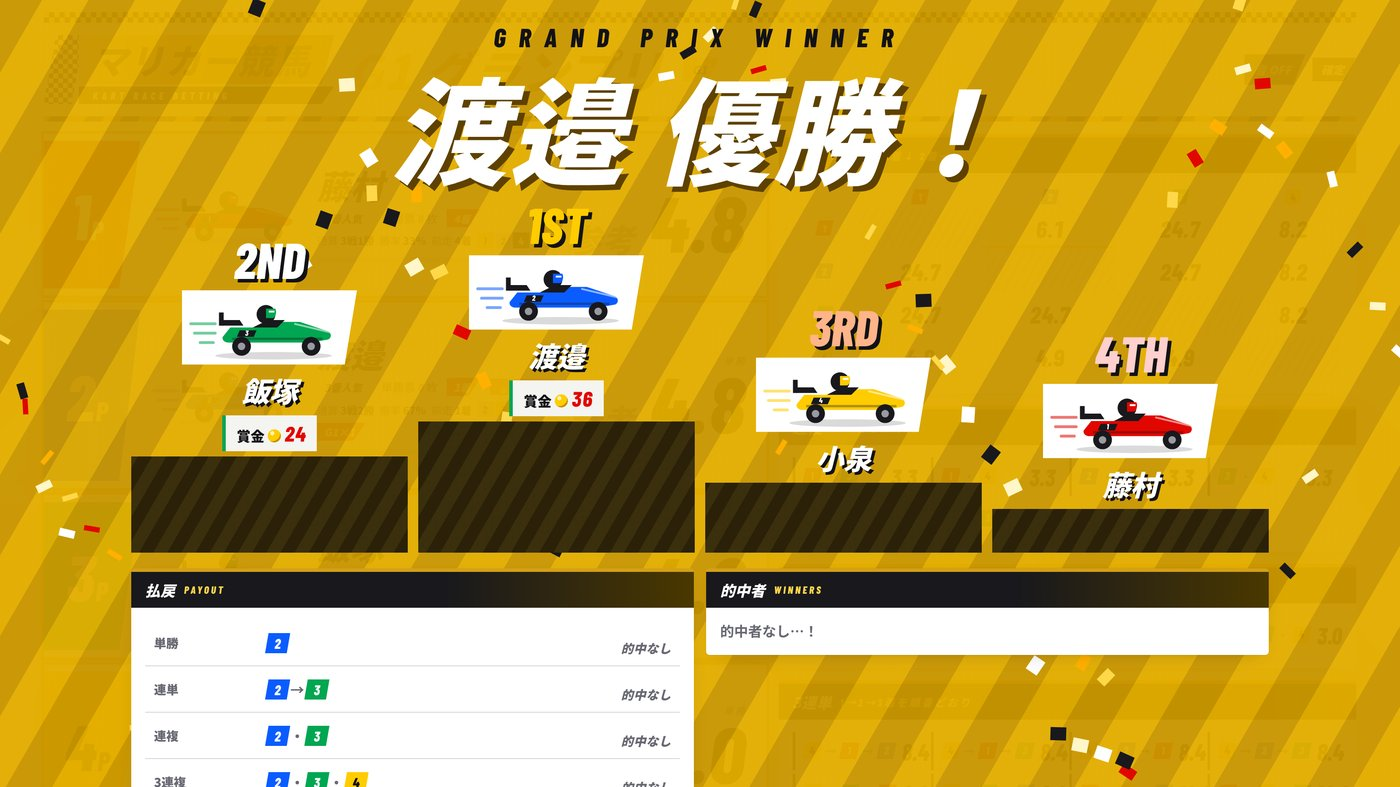
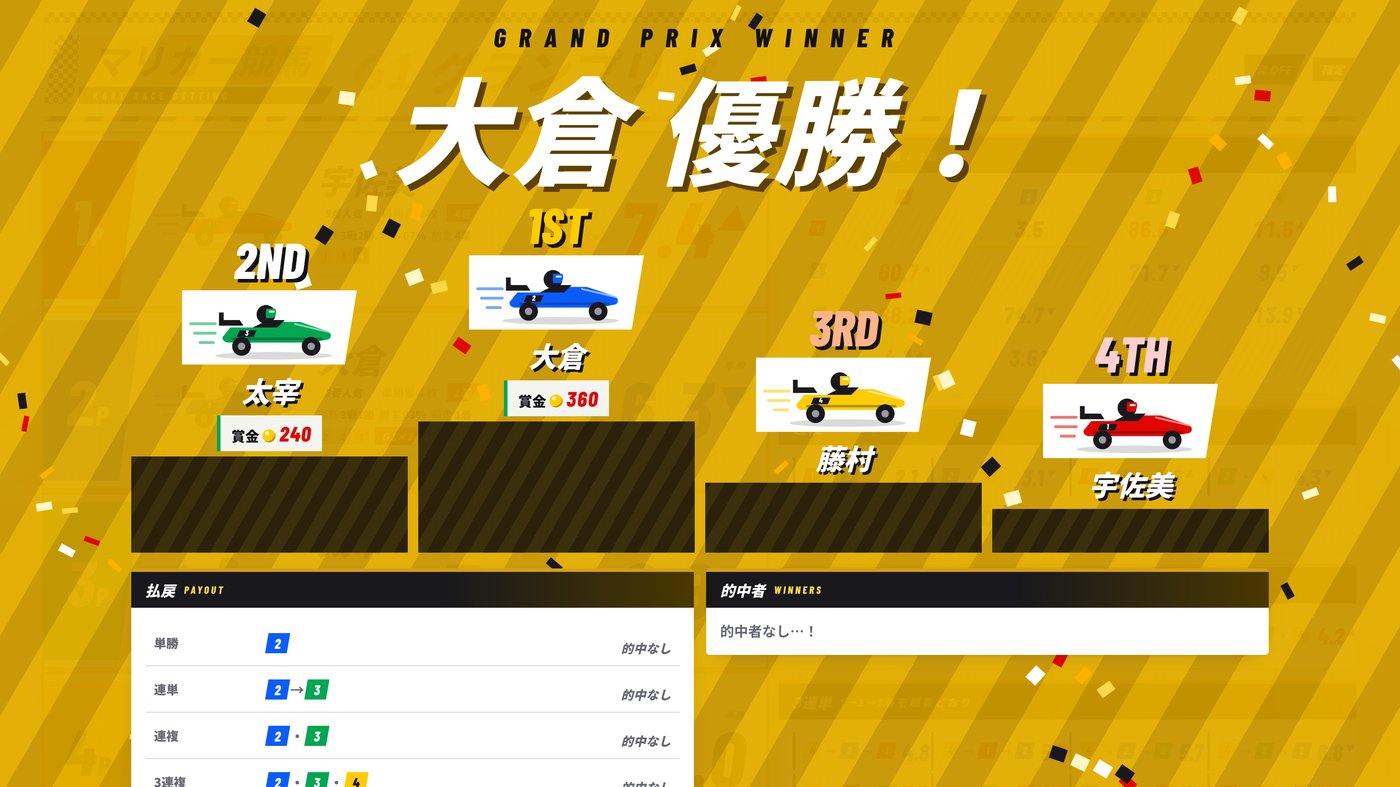
Publish chip unit, member rename, auto-tuned rules and names on tickets
Built from shinagawashrine-bit/questions mariokart-keiba/web/build.py.

Claude-Session: https://claude.ai/code/session_01Ww7jsUFGT8753ufTPMNzBb

diff --git a/index.html b/index.html
@@ -260,6 +260,10 @@ h1,h2,h3{font-family:var(--f-display);font-weight:900;font-style:italic;margin:0
 .amt .v{font-family:var(--f-num);font-weight:800;font-style:italic;font-size:36px;min-width:1.8em;text-align:center;line-height:1}
 .betbar .num[style]{color:var(--yellow)!important}
 .mytix{display:grid;gap:4px}
+.selp{display:inline-flex;align-items:center;white-space:nowrap}
+.selnm{font-weight:800;margin:0 2px 0 4px;white-space:nowrap}
+.tline>span:first-child,.mytix .tl>span:first-child{flex-wrap:wrap;min-width:0;row-gap:2px}
+.tline>span:last-child,.mytix .tl>span:last-child{white-space:nowrap;flex-shrink:0}
 .mytix .tl{display:flex;justify-content:space-between;align-items:center;gap:8px;background:var(--paper);padding:8px 12px;border-left:4px solid var(--ink)}
 .mytix .tl .num{font-size:20px}
 .cheer{text-align:center;padding:22px 16px;background:var(--paper);border-top:5px solid var(--red);box-shadow:0 8px 24px -16px #00000066}
@@ -482,13 +486,14 @@ const MK = {
 const MORDER = ["win","ex","qu","tri","t3"];
 const DEFAULT_SETTINGS = {
   rates:{win:80, ex:75, qu:75, tri:75, t3:70},
-  seed:{ex:50, qu:50, tri:50, t3:50},
-  caps:{win:0, ex:100, qu:100, tri:100, t3:50, self:50},
+  seed:{ex:500, qu:500, tri:500, t3:500},
+  caps:{win:0, ex:1000, qu:1000, tri:1000, t3:500, self:500},
   countdown:60,
   prizes:{prelim:[10,5], g1:[15,10], dobe:[5]},
-  virtual:30,
-  unit:10,
-  yen:10,
+  virtual:300,
+  unit:100,
+  yen:1,
+  chipV:2,
 };
 const POINTS = [4,3,2,1];
 const TYPE_LABEL = {prelim:"予選", g1:"G1 グランプリ", dobe:"D1 ドベ決定戦"};
@@ -499,11 +504,56 @@ const CIRC = ["①","②","③","④"];
 const S = {
   db:null, user:null, uid:null, isOwner:false, ready:false, noDb:false,
   state:null, ledger:null, bets:{}, roster:null, history:null, ps:{},
-  ui:{ m:"win", sel:[], amt:10, order:[], form:{}, proxyMember:"", pm:"win", psel:[], pamt:10, confirm:null, perPerson:null, claimOpen:false },
+  ui:{ m:"win", sel:[], amt:100, order:[], form:{}, proxyMember:"", pm:"win", psel:[], pamt:100, confirm:null, perPerson:null, claimOpen:false },
   prevOdds:{}, flash:{}, closing:false, lastOverlayKey:"",
 };
 function defaultState(){ return {members:[], races:[], cur:-1, settings:clone(DEFAULT_SETTINGS), gameId:rid()}; }
-function settings(){ const s=(S.state&&S.state.settings)||{}; return deepMerge(clone(DEFAULT_SETTINGS), s); }
+function settings(){
+  let s=(S.state&&S.state.settings)||{};
+  // 1枚＝10円・10枚単位のころに保存した設定は、1枚＝1円・100枚単位に合わせて10倍にして読む
+  if(!s.chipV && Object.keys(s).length){
+    s=clone(s); const x10=o=>{ if(o) for(const k in o) if(typeof o[k]==="number") o[k]*=10; };
+    x10(s.seed); x10(s.caps); ["virtual","unit"].forEach(k=>{ if(typeof s[k]==="number") s[k]*=10; }); s.yen=1; s.chipV=2;
+  }
+  const st=deepMerge(clone(DEFAULT_SETTINGS), s);
+  const L=learnedTune(st);
+  ["ex","qu","tri","t3"].forEach(m=>{ if(L.seed[m]!=null) st.seed[m]=L.seed[m]; });
+  if(L.virtual!=null) st.virtual=L.virtual;
+  if(L.caps) Object.assign(st.caps, L.caps);
+  if(L.countdown!=null) st.countdown=L.countdown;
+  st.learned=L.from;
+  return st;
+}
+/* 自動調整：払戻率と賞金％以外は、遊んだ記録から決める。
+   - 見せ金（連系）：直近10レースの売上の中央値の2倍を買い目の数で割る（少なすぎると数枚で倍率が暴落するため）。
+   - 仮の票（単勝）：直近10レースの単勝の売上の中央値の半分を4人で割る。どちらも3レース分たまるまでは初期値。
+   - 1人1レースの上限：今日配ったチップ（1人あたりの中央値）の10%（3連単と走者の自分単勝は5%）。
+   - 締切カウントダウン：直近5レースで「＋30秒」が押された回数と「即締切」の割合から、30〜120秒で調整。 */
+let tuneCache={key:"", val:null};
+function learnedTune(st){
+  const hr=(S.history&&S.history.races)||[], le=(S.ledger&&S.ledger.entries)||[];
+  const key=[hr.length, hr.length?hr[hr.length-1].rid+hr[hr.length-1].t:"", le.length, le.length?le[le.length-1].t:"", S.state&&S.state.gameId, st.unit].join("|");
+  if(tuneCache.key===key) return tuneCache.val;
+  tuneCache={key, val:learnedTuneCalc(st)}; return tuneCache.val;
+}
+function learnedTuneCalc(st){
+  const U=Math.max(1,st.unit||1), rU=x=>Math.max(U,Math.round(x/U)*U), cl=(x,a,b)=>Math.min(b,Math.max(a,x));
+  const med=a=>{ const b=a.slice().sort((x,y)=>x-y); return b[Math.floor(b.length/2)]; };
+  const H=((S.history&&S.history.races)||[]).slice().sort((a,b)=>a.t-b.t), out={seed:{}, from:{}};
+  const P=H.filter(x=>x.pools), NC={ex:12, qu:6, tri:4, t3:24};
+  ["ex","qu","tri","t3"].forEach(m=>{ const xs=P.filter(x=>x.pools[m]!=null).slice(-10).map(x=>x.pools[m]);
+    if(xs.length>=3){ out.seed[m]=cl(rU(med(xs)*2/NC[m]), U*2, U*20); out.from.seed=xs.length; } });
+  const ws=P.filter(x=>x.pools.win!=null).slice(-10).map(x=>x.pools.win);
+  if(ws.length>=3){ out.virtual=cl(Math.round(med(ws)*0.5/4/10)*10, U, U*10); out.from.virtual=ws.length; }
+  const gid=S.state&&S.state.gameId, given={};
+  ((S.ledger&&S.ledger.entries)||[]).filter(e=>e.gameId===gid&&e.amt>0).forEach(e=>given[e.member]=(given[e.member]||0)+e.amt);
+  const gv=Object.values(given);
+  if(gv.length){ const g=med(gv); out.caps={ex:rU(g*0.1), qu:rU(g*0.1), tri:rU(g*0.1), t3:rU(g*0.05), self:rU(g*0.05)}; out.from.caps=g; }
+  const C=H.filter(x=>x.ext!=null).slice(-5);
+  if(C.length>=3){ const ext=C.reduce((a,x)=>a+x.ext,0)/C.length, early=C.filter(x=>x.early).length/C.length;
+    out.countdown=cl(Math.round((60+15*ext-15*early)/5)*5, 30, 120); out.from.countdown=C.length; }
+  return out;
+}
 
 /* ---------------- utils ---------------- */
 function clone(o){ return JSON.parse(JSON.stringify(o)); }
@@ -832,7 +882,9 @@ function kart(i, num){
   </svg>`;
 }
 function badge(r,id){ const i=laneIdx(r,id); return `<span class="lanebadge c${i}">${i+1}</span>`; }
-function selHtml(r,m,sel){ const sep=MK[m].ordered?"→":"・"; return sel.map(id=>badge(r,id)).join(`<span class="muted">${sep}</span>`); }
+function selHtml(r,m,sel,names){ const sep=MK[m].ordered?"→":"・"; return sel.map(id=>names?`<span class="selp">${badge(r,id)}<span class="selnm">${esc(sel.length>1?shortName(mname(id)):mname(id))}</span></span>`:badge(r,id)).join(`<span class="muted">${sep}</span>`); }
+/* 2人以上並べるときの短い名前：スペースがあれば前半（苗字）、なければ4文字以上は先頭2文字 */
+function shortName(n){ n=String(n||"").trim(); const sp=n.split(/[\s　]+/); if(sp.length>1) return sp[0]; return n.length>=4?n.slice(0,2):n; }
 function selText(r,m,sel){ const sep=MK[m].ordered?"→":"・"; return sel.map(id=>CIRC[laneIdx(r,id)]+mname(id)).join(sep); }
 function coin(){ return `<span class="coin"></span>`; }
 function statusPill(r){ const st=r.status==="countdown"&&remain(r)===0?"closed":r.status; return `<span class="pill st-${st}">${st==="open"||st==="countdown"?'<span class="dot"></span>':""}${STATUS_LABEL[st]}</span>`; }
@@ -918,7 +970,7 @@ function helpPlayer(){
     <p>4人が走るマリオカートのレースに、残りの人がスマホからチップを賭けて遊ぶゲームです。アカウント登録やアプリのインストールはいりません。</p>
     <ol class="mlist"><li><b>受付中</b>：スマホから馬券を買う</li><li><b>締切</b>：カウントダウンが終わると締切。大画面にみんなの馬券が公開される</li><li><b>レース</b>：4人が走る</li><li><b>結果発表</b>：当たった人にチップが払い戻される</li></ol>
     <p>予選を何回か行ったあと、上位4人の「G1 グランプリ」と下位4人の「D1 ドベ決定戦」で決勝。最後に表彰式があります。</p>
-    <ul class="mlist"><li>チップは主催者から配られます。</li><li>自分が走る番のレースは、ほかの人に賭けられません。</li></ul>`)}</div>
+    <ul class="mlist"><li>チップは主催者から配られます。1チップ＝1円の感覚で、賭けるのは${unit()}チップ単位です。</li><li>自分が走る番のレースは、ほかの人に賭けられません。</li></ul>`)}</div>
   <div id="m-ready">${mSec("準備","READY",`
     <ol class="mlist"><li>大画面のQRコードを読み取るか、主催者から送られたURLを開く</li><li>「あなたは誰？」で自分の名前をタップする</li><li>名前と残高（持っているチップ）が出たら準備完了</li></ol>
     ${mImg("p_start.jpg","左：名前を選ぶ画面。右：選んだあとの画面。右上の数字が残高")}
@@ -983,9 +1035,9 @@ function helpAdmin(){
     <h3>1. 管理画面を開く</h3>
     <ol class="mlist"><li>管理用URLを開き、暗証番号を入れて「開く」（一度入れた端末は次回から不要）</li><li>テレビにつないだPCで大画面用URLを開き、全画面表示にする</li></ol>
     <h3>2. メンバーを登録する</h3>
-    <ul class="mlist"><li>初めての人：「名前を入力」に名前を入れて「追加」</li><li>2回目から：「いつものメンバー」の名前をタップ。「全員参加」でまとめて追加</li></ul>
+    <ul class="mlist"><li>初めての人：「名前を入力」に名前を入れて「追加」ボタン（Enterキーでは追加されません）</li><li>名前を間違えたら、名前の横の「名前を変更」で直せます</li><li>苗字と名前のあいだにスペースを入れておくと（例：小泉 勝史）、馬券に何人か並ぶときに苗字だけが正しく表示されます</li><li>2回目から：「いつものメンバー」の名前をタップ。「全員参加」でまとめて追加</li></ul>
     <h3>3. チップを配る</h3>
-    <p>各自の行の「枚」に枚数を入れて青い「配る」。全員に同じ枚数を配るのがおすすめです。配りすぎたら「減らす」。</p>
+    <p>各自の行の「枚」に枚数を入れて青い「配る」。1チップ＝1円の感覚で、賭けは${unit()}チップ単位です。全員に同じ枚数を配るのがおすすめです（例：1万チップ）。配りすぎたら「減らす」。</p>
     ${mImg("members.jpg","8人を登録し、各1000枚を配ったところ")}
     <p>参加者がスマホで名前を選ぶと「スマホ接続」と出ます。全員に付いたか確かめてから始めると安心です。</p>
     <h3>4. 出走表を作る</h3>
@@ -1036,8 +1088,8 @@ function helpAdmin(){
     <ol class="mlist"><li>「馬券データCSV」「レース結果CSV」で保存（次回の倍率や払戻率の見直しに使える）</li><li>「ゲームをリセット」→「リセットする」</li></ol>
     ${mImg("data.jpg","CSVの保存とリセット")}
     <ul class="mlist"><li>リセットで消えるのは、今日のメンバー・チップ・出走表・馬券です。</li><li>名簿、これまでの成績、ルール設定は消えません。</li><li>試しに遊んだあとも、リセットしてから本番を始めてください。</li></ul>
-    <h3>ルール設定（必要なときだけ）</h3>
-    <p>「ルール設定」で払戻率・上限・締切の秒数・賭けの単位・賞金の割合・見せ金を変えて「設定を保存」できます。初めてなら、そのままで大丈夫です。</p>`)}</div>
+    <h3>ルール設定（自動で調整されます）</h3>
+    <p>ふだんは触らなくて大丈夫です。管理画面の「ルール設定」を開くと、払戻率と賞金の％だけ手で変えられます。</p><ul class="mlist"><li>見せ金・単勝の仮の票：直近のレースの売上から自動で調整（3レース分たまるまでは初期値）</li><li>1人1レースの上限：今日配ったチップの10%（3連単と走者の自分単勝は5%）</li><li>締切カウントダウン：「＋30秒」をよく押すと長く、「即締切」が多いと短く（30〜120秒）</li><li>賭けの単位は100枚（1枚＝1円）で固定</li></ul>`)}</div>
   </div>`;
 }
 function renderHelp(){
@@ -1193,7 +1245,7 @@ function revealHtml(r){
   const cards=Object.entries(by).map(([m,ts],i)=>{
     const bs=[]; if(m===maxM) bs.push(`<span class="badge b-max">MAX BET</span>`); if(m===anaM && anaV>=10) bs.push(`<span class="badge b-ana">大穴狙い</span>`); if(ts.length===1) bs.push(`<span class="badge b-one">一点勝負</span>`); if(r.runners.includes(m)) bs.push(`<span class="badge b-self">自分に賭けた</span>`);
     return `<div class="tcard" style="animation-delay:${i*.12}s"><h3><span>${esc(mname(m))}</span><span class="row">${bs.join("")}</span></h3>
-      ${ts.map(t=>{ const e=O.odds[t.m][keyOf(t.m,t.sel)]; return `<div class="tline"><span class="row" style="gap:6px"><b>${MK[t.m].label}</b>${selHtml(r,t.m,t.sel)}</span><span><b class="num">${t.amt}</b>枚 <span class="muted num">${e?fmtO(e.v):""}倍</span></span></div>`; }).join("")}</div>`;
+      ${ts.map(t=>{ const e=O.odds[t.m][keyOf(t.m,t.sel)]; return `<div class="tline"><span class="row" style="gap:6px"><b>${MK[t.m].label}</b>${selHtml(r,t.m,t.sel,true)}</span><span><b class="num">${t.amt}</b>枚 <span class="muted num">${e?fmtO(e.v):""}倍</span></span></div>`; }).join("")}</div>`;
   }).join("");
   return `<div class="overlay ov-${r.type}">${r.type==="g1"?confetti(30):""}<div class="inner"><div class="stamp">締切！馬券公開</div>
     <p class="sub2">${esc(raceTitle(r))}　売上 <b class="num" style="color:var(--goldink)">${tix.reduce((a,t)=>a+t.amt,0)}</b> 枚</p>
@@ -1203,7 +1255,7 @@ function resultHtml(r){
   const s=r.settle;
   const pod=[1,0,2,3].filter(i=>s.order[i]).map(i=>{ const id=s.order[i], li=laneIdx(r,id); const h=[150,110,80,50][i];
     return `<div class="pod"><div class="rk r${i+1}">${["1ST","2ND","3RD","4TH"][i]}</div><div class="k">${kart(li,li+1)}</div><div class="nm">${esc(mname(id))}</div>${s.prizes[id]?`<div class="hit">賞金 ${coin()} <span class="num">${s.prizes[id]}</span></div>`:""}<div class="block" style="height:${h}px"></div></div>`; }).join("");
-  const rows=marketsFor(r).map(m=>{ const w=s.winOdds[m]; if(!w) return ""; return `<tr><th>${MK[m].label}</th><td>${selHtml(r,m,w.sel)}</td><td class="num">${w.v?fmtO(w.v)+"倍":'<span class="muted" style="font-size:14px">的中なし</span>'}</td></tr>`; }).join("");
+  const rows=marketsFor(r).map(m=>{ const w=s.winOdds[m]; if(!w) return ""; return `<tr><th>${MK[m].label}</th><td>${selHtml(r,m,w.sel,true)}</td><td class="num">${w.v?fmtO(w.v)+"倍":'<span class="muted" style="font-size:14px">的中なし</span>'}</td></tr>`; }).join("");
   const hits = s.hits.length ? s.hits.sort((a,b)=>b.pay-a.pay).map(h=>`<div class="hit">${esc(mname(h.member))} <span class="muted">${MK[h.m].label}</span> ${coin()} <span class="num">+${h.pay}</span></div>`).join("") : `<span class="muted">的中者なし…！</span>`;
   const last=s.order[s.order.length-1], lli=laneIdx(r,last), champ=s.order[0];
   const head = r.type==="g1" ? `<div class="gp-top">GRAND PRIX WINNER</div><div class="stamp">${esc(mname(champ))} 優勝！</div>`
@@ -1274,9 +1326,9 @@ function renderBet(){
   const can=live&&done&&bal>=amt&&amt<=capLeft&&amt>0;
   const why=!live?"受付していません": !done?`${n===1?"1人":n+"人"}選んでね` : bal<amt?"チップが足りません" : amt>capLeft?`${MK[m].label}は1レース${cap}枚まで`:"";
   const myList=mine.length?`<h2 style="font-size:16px">このレースの馬券</h2><div class="mytix">${mine.map(t=>{ const eo=O.odds[t.m][keyOf(t.m,t.sel)];
-      return `<div class="tl"><span class="row" style="gap:6px"><b>${MK[t.m].label}</b>${selHtml(r,t.m,t.sel)}</span><span class="row" style="gap:8px"><b class="num">${t.amt}</b>枚<span class="muted num">${eo?fmtO(eo.v):""}倍</span>${live&&t.doc===S.uid?`<button class="btn sm" data-act="cancelT" data-id="${t.id}">取消</button>`:""}</span></div>`; }).join("")}</div>`:"";
+      return `<div class="tl"><span class="row" style="gap:6px"><b>${MK[t.m].label}</b>${selHtml(r,t.m,t.sel,true)}</span><span class="row" style="gap:8px"><b class="num">${t.amt}</b>枚<span class="muted num">${eo?fmtO(eo.v):""}倍</span>${live&&t.doc===S.uid?`<button class="btn sm" data-act="cancelT" data-id="${t.id}">取消</button>`:""}</span></div>`; }).join("")}</div>`:"";
   const bar = live ? `<div class="betbar"><div class="in">
-      <div class="row1"><span class="selv">${done?`<b>${MK[m].label}</b> ${selHtml(r,m,sel)}`:`<span class="muted">${MK[m].label}：${why}</span>`}</span><span class="ov">${e?fmtO(e.v)+"倍":""}</span></div>
+      <div class="row1"><span class="selv">${done?`<b>${MK[m].label}</b> ${selHtml(r,m,sel,true)}`:`<span class="muted">${MK[m].label}：${why}</span>`}</span><span class="ov">${e?fmtO(e.v)+"倍":""}</span></div>
       <div class="row2">
         ${amtButtons(amt)}
         <button class="btn go" data-act="bet" ${can?"":"disabled"} style="font-size:18px;padding:12px 18px">賭ける！</button>
@@ -1419,7 +1471,7 @@ function adminMembers(){
     ${!started||S.ui.showJoin?rosterHtml():""}
     ${!started||S.ui.showJoin?`<div class="row" style="margin-bottom:10px"><input id="newName" data-bind="newName" placeholder="名前を入力" value="${esc(S.ui.form.newName||"")}" style="flex:1"><button class="btn go" data-act="addMember">${started?"途中参加":"追加"}</button></div>`:""}
     <div class="scroll"><table class="tbl"><tr><th>名前</th><th class="r">残高</th><th>チップを配る・減らす</th><th></th></tr>
-    ${members().map(m=>`<tr style="${m.left?"opacity:.45":""}"><td><b>${esc(m.name)}</b> ${m.left?'<span class="pill st-wait" style="font-size:10px;padding:1px 6px">離脱</span>':""}${connected.has(m.id)?'<span class="pill st-open" style="font-size:10px;padding:1px 6px">スマホ接続</span>':""}</td><td class="r"><span class="num" style="font-size:18px">${bal[m.id]||0}</span></td>
+    ${members().map(m=>`<tr style="${m.left?"opacity:.45":""}"><td>${S.ui.editName===m.id?`<span class="row" style="gap:4px;flex-wrap:nowrap"><input id="rename_${m.id}" class="mini" style="width:110px" data-bind="rename_${m.id}" value="${esc(S.ui.form["rename_"+m.id]??m.name)}" aria-label="新しい名前"><button class="btn sm go" data-act="renameSave" data-id="${m.id}">保存</button><button class="btn sm ghost" data-act="renameCancel">やめる</button></span>`:`<b>${esc(m.name)}</b> <button class="btn sm ghost" data-act="renameStart" data-id="${m.id}" style="padding:0 4px;font-size:12px;text-decoration:underline">名前を変更</button>`} ${m.left?'<span class="pill st-wait" style="font-size:10px;padding:1px 6px">離脱</span>':""}${connected.has(m.id)?'<span class="pill st-open" style="font-size:10px;padding:1px 6px">スマホ接続</span>':""}</td><td class="r"><span class="num" style="font-size:18px">${bal[m.id]||0}</span></td>
       <td><div class="row" style="gap:4px;flex-wrap:nowrap"><input id="send_${m.id}" class="mini" type="number" min="1" inputmode="numeric" placeholder="枚" data-bind="send_${m.id}" value="${esc(S.ui.form["send_"+m.id]||"")}"><button class="btn sm blue" data-act="send" data-id="${m.id}" data-sign="1">配る</button><button class="btn sm go" data-act="send" data-id="${m.id}" data-sign="-1">減らす</button></div></td>
       <td>${!started?`<button class="btn sm ghost" data-act="delMember" data-id="${m.id}">削除</button>`:m.left?`<button class="btn sm" data-act="rejoin" data-id="${m.id}">復帰</button>`:`<button class="btn sm red" data-act="leave" data-id="${m.id}">離脱</button>`}</td></tr>`).join("")}
     </table></div>
@@ -1443,22 +1495,29 @@ function adminSchedule(){
     <div style="margin-top:12px"><button class="btn go" data-act="makeSchedule">${races().length?"出走表を作り直す":"出走表を作ってスタート"}</button></div></div>`;
 }
 function adminSettings(){
-  const st=settings(), f=S.ui.form;
+  const st=settings(), f=S.ui.form, L=st.learned||{};
   const v=(id,val)=>f[id]!==undefined?f[id]:val;
   const inp=(id,label,val)=>`<label for="${id}">${label}<input id="${id}" type="number" step="any" inputmode="decimal" data-bind="${id}" value="${esc(v(id,val))}"></label>`;
-  return `<div class="panel"><h2>ルール設定 <span class="tag">SETTINGS</span></h2>
+  const tag=k=>L[k]!=null?'<span class="pill st-open" style="font-size:10px;padding:1px 6px">学習中</span>':'<span class="pill st-wait" style="font-size:10px;padding:1px 6px">初期値</span>';
+  return `<div class="panel"><details><summary style="cursor:pointer;font-weight:900;font-style:italic">ルール設定（ふだんは触らなくてOK）</summary>
+    <p class="muted" style="font-size:12px;margin:10px 0">払戻率と賞金の％だけ手で変えられます。そのほかは遊んだ記録から自動で調整します。</p>
     <div class="formgrid">
       ${MORDER.map(m=>inp("rate_"+m,`${MK[m].label} 払戻率%`,st.rates[m])).join("")}
-      ${["ex","qu","tri","t3"].map(m=>inp("seed_"+m,`${MK[m].label} 見せ金/1買い目`,st.seed[m])).join("")}
-      ${["ex","qu","tri","t3"].map(m=>inp("cap_"+m,`${MK[m].label} 上限枚数`,st.caps[m])).join("")}
-      ${inp("cap_self","走者の自分単勝 上限（0で禁止）",st.caps.self)}
-      ${inp("countdown","締切カウントダウン秒",st.countdown)}
-      ${inp("unit","賭けの単位（枚）",st.unit)}
       ${inp("pz_prelim_0","予選 1着賞金%",st.prizes.prelim[0])}${inp("pz_prelim_1","予選 2着賞金%",st.prizes.prelim[1])}
       ${inp("pz_g1_0","G1 1着賞金%",st.prizes.g1[0])}${inp("pz_g1_1","G1 2着賞金%",st.prizes.g1[1])}
       ${inp("pz_dobe_0","ドベ 1着賞金%",st.prizes.dobe[0])}
     </div>
-    <div class="row" style="margin-top:12px"><button class="btn go" data-act="saveSettings">設定を保存</button><span class="muted" style="font-size:12px">単勝で的中者なしは胴元の総取り。見せ金は計算上だけのチップです。</span></div></div>`;
+    <div class="row" style="margin-top:12px"><button class="btn go" data-act="saveSettings">設定を保存</button></div>
+    <h3 style="font-size:14px;margin:16px 0 6px">自動で調整しているもの（いまの値）</h3>
+    <div class="scroll"><table class="tbl"><tr><th>項目</th><th class="r">いまの値</th><th>決め方</th></tr>
+      <tr><td>見せ金（1買い目）${tag("seed")}</td><td class="r">連単${st.seed.ex}・連複${st.seed.qu}・3連複${st.seed.tri}・3連単${st.seed.t3}</td><td class="muted" style="font-size:12px">合計が直近の売上の2倍くらいになるように</td></tr>
+      <tr><td>単勝の仮の票（1人あたり）${tag("virtual")}</td><td class="r">${st.virtual}</td><td class="muted" style="font-size:12px">直近の単勝の売上の半分くらいになるように</td></tr>
+      <tr><td>1人1レースの上限 ${tag("caps")}</td><td class="r">連単・連複・3連複${st.caps.ex}・3連単${st.caps.t3}・走者の自分単勝${st.caps.self}</td><td class="muted" style="font-size:12px">配ったチップの10%（3連単と自分単勝は5%）</td></tr>
+      <tr><td>締切カウントダウン ${tag("countdown")}</td><td class="r">${st.countdown}秒</td><td class="muted" style="font-size:12px">「＋30秒」が多ければ長く、「即締切」が多ければ短く</td></tr>
+      <tr><td>賭けの単位</td><td class="r">${st.unit}枚</td><td class="muted" style="font-size:12px">固定（1枚＝1円）</td></tr>
+    </table></div>
+    <p class="muted" style="font-size:12px;margin:8px 0 0">単勝で的中者なしは胴元の総取り。見せ金と仮の票は計算上だけのチップです。</p>
+  </details></div>`;
 }
 function adminUrls(){
   const list=[["投票用（みんなに配る）","#bet","スマホで開いて名前を選ぶだけ。成績表タブもここにあります"],["大画面用（オッズ画面）","#board","テレビやモニターにつないだPCで全画面表示"],["管理用（あなた専用）","#admin","オーナー以外が開いても操作できません"]];
@@ -1517,6 +1576,15 @@ const A={
     if(!p) mutateRoster(r=>{ r.players.push({id, name}); });
     let re=false; mutateState(s=>{ s.members.push({id, name, tb:Math.random()}); re=rescheduleRest(s); }).then(()=>{ if(re) toast(`${name}が途中参加。残りの出走表を組み直しました`); });
     toast(p?`${name}（登録済み）を追加`:`${name}を追加して名簿に保存しました`); },
+  renameStart(d){ S.ui.editName=d.id; S.ui.form["rename_"+d.id]=mname(d.id); render(); },
+  renameCancel(){ if(S.ui.editName) delete S.ui.form["rename_"+S.ui.editName]; S.ui.editName=null; render(); },
+  renameSave(d){ const id=d.id, name=(S.ui.form["rename_"+id]||"").trim(); if(!name){ toast("名前を入れてね"); return; }
+    if(name===mname(id)){ A.renameCancel(); return; }
+    if(members().some(m=>m.id!==id&&m.name===name)||roster().some(p=>p.id!==id&&p.name===name)){ toast("同じ名前がいます"); return; }
+    delete S.ui.form["rename_"+id]; S.ui.editName=null;
+    mutateState(s=>{ const m=s.members.find(x=>x.id===id); if(m) m.name=name; });
+    if(roster().some(p=>p.id===id)) mutateRoster(r=>{ const p=r.players.find(x=>x.id===id); if(p) p.name=name; });
+    toast(`名前を「${name}」に変えました`); },
   addRoster(d){ const p=roster().find(x=>x.id===d.id); if(!p||members().some(m=>m.id===p.id)) return; let re=false; mutateState(s=>{ s.members.push({id:p.id, name:p.name, tb:Math.random()}); re=rescheduleRest(s); }).then(()=>{ if(re) toast(`${p.name}が途中参加。残りの出走表を組み直しました`); }); },
   addAllRoster(){ const add=roster().filter(p=>!members().some(m=>m.id===p.id)); if(!add.length) return; mutateState(s=>{ add.forEach(p=>s.members.push({id:p.id, name:p.name, tb:Math.random()})); rescheduleRest(s); }); toast(`${add.length}人を追加しました`); },
   delRoster(d){ if(S.ui.confirm!=="del:"+d.id){ S.ui.confirm="del:"+d.id; render(); return; } S.ui.confirm=null; mutateRoster(r=>{ r.players=r.players.filter(p=>p.id!==d.id); }); toast("名簿から消しました（成績は残ります）"); },
@@ -1549,8 +1617,8 @@ const A={
     toast("出走表を作りました！第1レース受付開始");
   },
   countdown(){ const sec=settings().countdown; mutateState(s=>{ const r=s.races[s.cur]; r.status="countdown"; r.closeAt=now()+sec*1000; }); },
-  plus30(){ mutateState(s=>{ const r=s.races[s.cur]; if(r.closeAt) r.closeAt+=30000; }); },
-  closeNow(){ S.ui.order=[]; mutateState(s=>{ const r=s.races[s.cur]; r.status="closed"; r.closeAt=Math.min(r.closeAt||Infinity, now()); }); },
+  plus30(){ mutateState(s=>{ const r=s.races[s.cur]; if(r.closeAt){ r.closeAt+=30000; r.ext=(r.ext||0)+1; } }); },
+  closeNow(){ S.ui.order=[]; mutateState(s=>{ const r=s.races[s.cur]; if(r.status==="countdown"&&r.closeAt&&now()<r.closeAt-5000) r.early=1; r.status="closed"; r.closeAt=Math.min(r.closeAt||Infinity, now()); }); },
   reopen(){ mutateState(s=>{ const r=s.races[s.cur]; r.status="open"; r.closeAt=null; }); },
   orderPick(d){ const o=S.ui.order, i=o.indexOf(d.id); if(i>=0) o.splice(i,1); else o.push(d.id); render(); },
   orderReset(){ S.ui.order=[]; render(); },
@@ -1563,9 +1631,10 @@ const A={
     const pl={}; raceTickets(rr).forEach(t=>pl[t.member]=(pl[t.member]||0)-t.amt);
     for(const [m,a] of Object.entries(settle.payouts)) pl[m]=(pl[m]||0)+a;
     for(const [m,a] of Object.entries(settle.prizes)) pl[m]=(pl[m]||0)+a;
-    const gid=S.state.gameId, rid0=r.id, typ=r.type;
+    const gid=S.state.gameId, rid0=r.id, typ=r.type, pools={};
+    marketsFor(rr).forEach(m=>pools[m]=0); raceTickets(rr).forEach(t=>{ if(pools[t.m]!=null) pools[t.m]+=t.amt; });
     mutateState(s=>{ const x=s.races[s.cur]; x.order=o; x.settle=settle; x.status="done"; if(!x.closeAt) x.closeAt=now(); });
-    mutateHistory(hh=>{ hh.races=hh.races.filter(x=>x.rid!==rid0); hh.races.push({rid:rid0, gid, t:now(), type:typ, order:o, pl}); });
+    mutateHistory(hh=>{ hh.races=hh.races.filter(x=>x.rid!==rid0); hh.races.push({rid:rid0, gid, t:now(), type:typ, order:o, pl, pools, ext:r.ext||0, early:r.early?1:0}); });
   },
   undoResult(){ const r=curRace(); const rid0=r&&r.id; mutateState(s=>{ const x=s.races[s.cur]; x.settle=null; x.order=null; x.status="closed"; }); if(rid0) mutateHistory(hh=>{ hh.races=hh.races.filter(x=>x.rid!==rid0); }); },
   nextRace(){ mutateState(s=>{ s.cur++; const r=s.races[s.cur]; r.status="open"; r.closeAt=null; }); },
@@ -1592,16 +1661,13 @@ const A={
     S.ui.psel=[]; toast(`${mname(pm)}：${MK[m].label} ${amt}枚`);
   },
   saveSettings(){
-    const f=S.ui.form, st=settings(), num=(id,d)=>{ const x=parseFloat(f[id]); return isFinite(x)?x:d; };
-    MORDER.forEach(m=>st.rates[m]=num("rate_"+m,st.rates[m]));
-    ["ex","qu","tri","t3"].forEach(m=>{ st.seed[m]=Math.max(0,num("seed_"+m,st.seed[m])); st.caps[m]=Math.max(0,Math.round(num("cap_"+m,st.caps[m]))); });
-    st.caps.self=Math.max(0,Math.round(num("cap_self",st.caps.self)));
-    st.unit=Math.max(1,Math.round(num("unit",st.unit)));
-    st.countdown=Math.max(5,Math.round(num("countdown",st.countdown)));
+    const f=S.ui.form, st=clone(settings()), num=(id,d)=>{ const x=parseFloat(f[id]); return isFinite(x)?x:d; };
+    delete st.learned;
+    MORDER.forEach(m=>st.rates[m]=Math.min(100,Math.max(0,num("rate_"+m,st.rates[m]))));
     st.prizes.prelim=[num("pz_prelim_0",st.prizes.prelim[0]),num("pz_prelim_1",st.prizes.prelim[1])];
     st.prizes.g1=[num("pz_g1_0",st.prizes.g1[0]),num("pz_g1_1",st.prizes.g1[1])];
     st.prizes.dobe=[num("pz_dobe_0",st.prizes.dobe[0])];
-    Object.keys(f).filter(k=>/^(rate_|seed_|cap_|pz_|countdown|unit|yen)/.test(k)).forEach(k=>delete f[k]);
+    Object.keys(f).filter(k=>/^(rate_|pz_)/.test(k)).forEach(k=>delete f[k]);
     mutateState(s=>{ s.settings=st; }); toast("設定を保存しました");
   },
   askReset(){ S.ui.confirm="reset"; render(); },
@@ -1645,7 +1711,7 @@ document.addEventListener("input",e=>{
   if(b==="proxyMember") render();
 });
 document.addEventListener("change",e=>{ if(e.target.dataset&&e.target.dataset.bind==="proxyMember"){ S.ui.proxyMember=e.target.value; render(); } });
-document.addEventListener("keydown",e=>{ if(e.key==="Enter"&&e.target.id==="newName") A.addMember(); if(e.key==="Enter"&&e.target.id==="adminPin") A.pin(); });
+document.addEventListener("keydown",e=>{ if(e.isComposing||e.keyCode===229) return; if(e.key==="Enter"&&e.target.id==="adminPin") A.pin(); });
 window.addEventListener("hashchange",()=>{ S.lastOverlayKey=""; render(); });
 
 /* ticker: countdown digits, auto-close on admin, overlay countdown */
